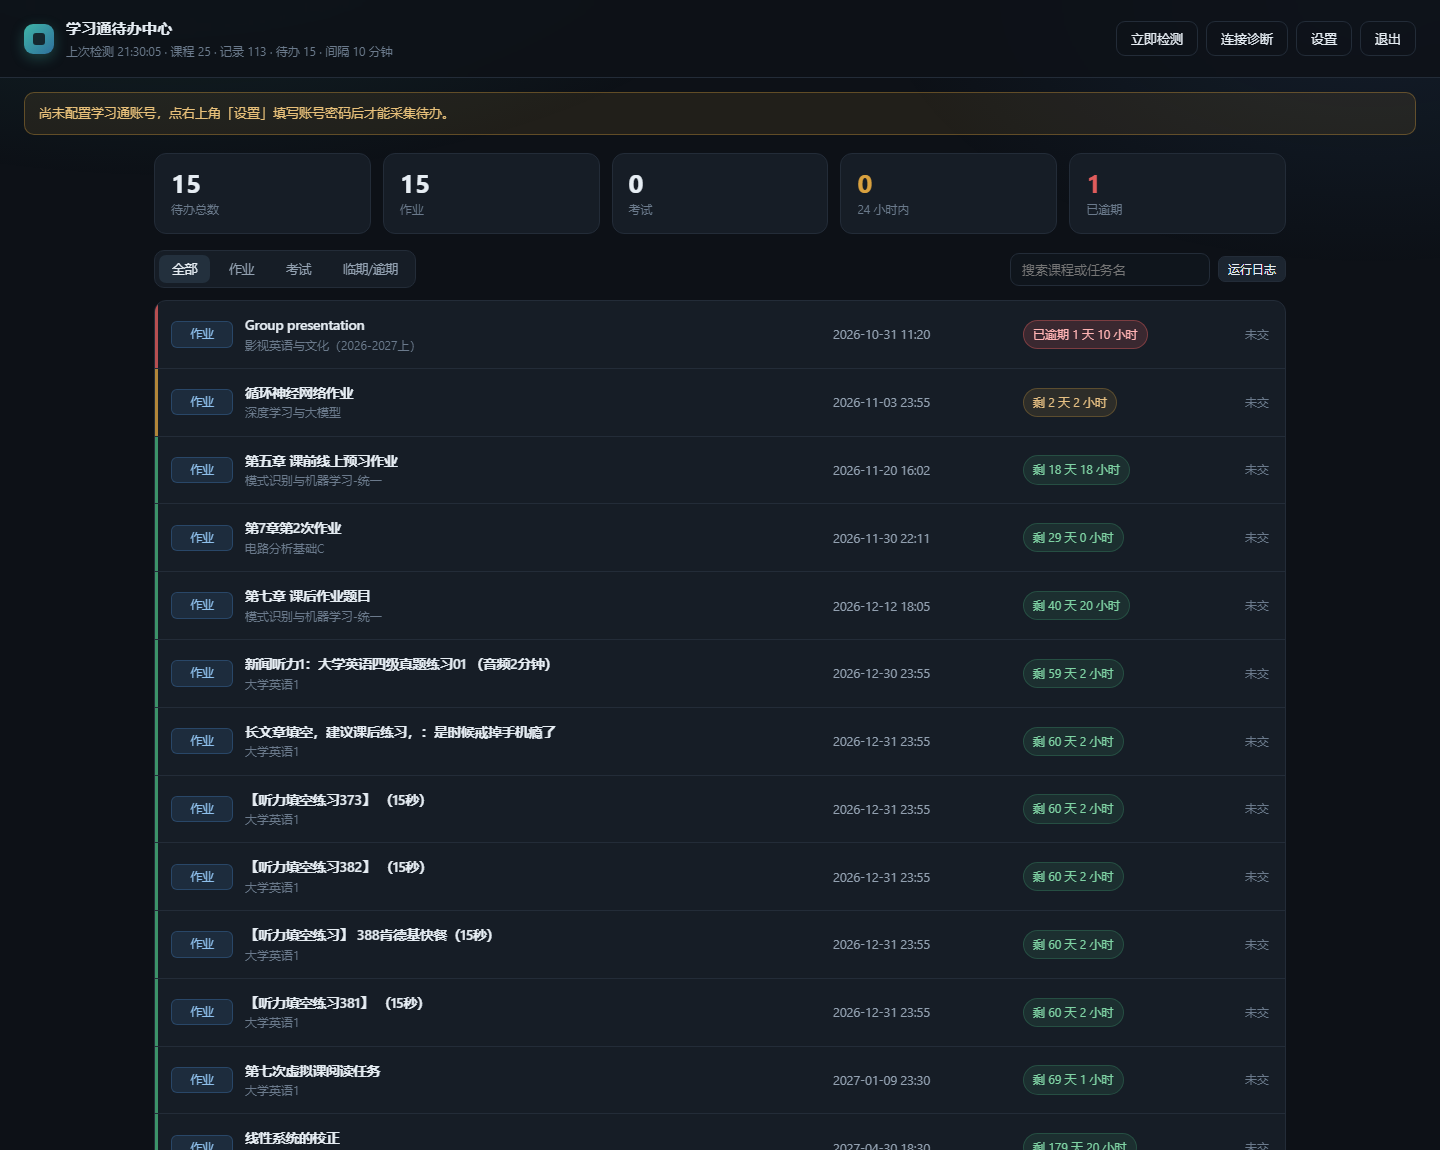
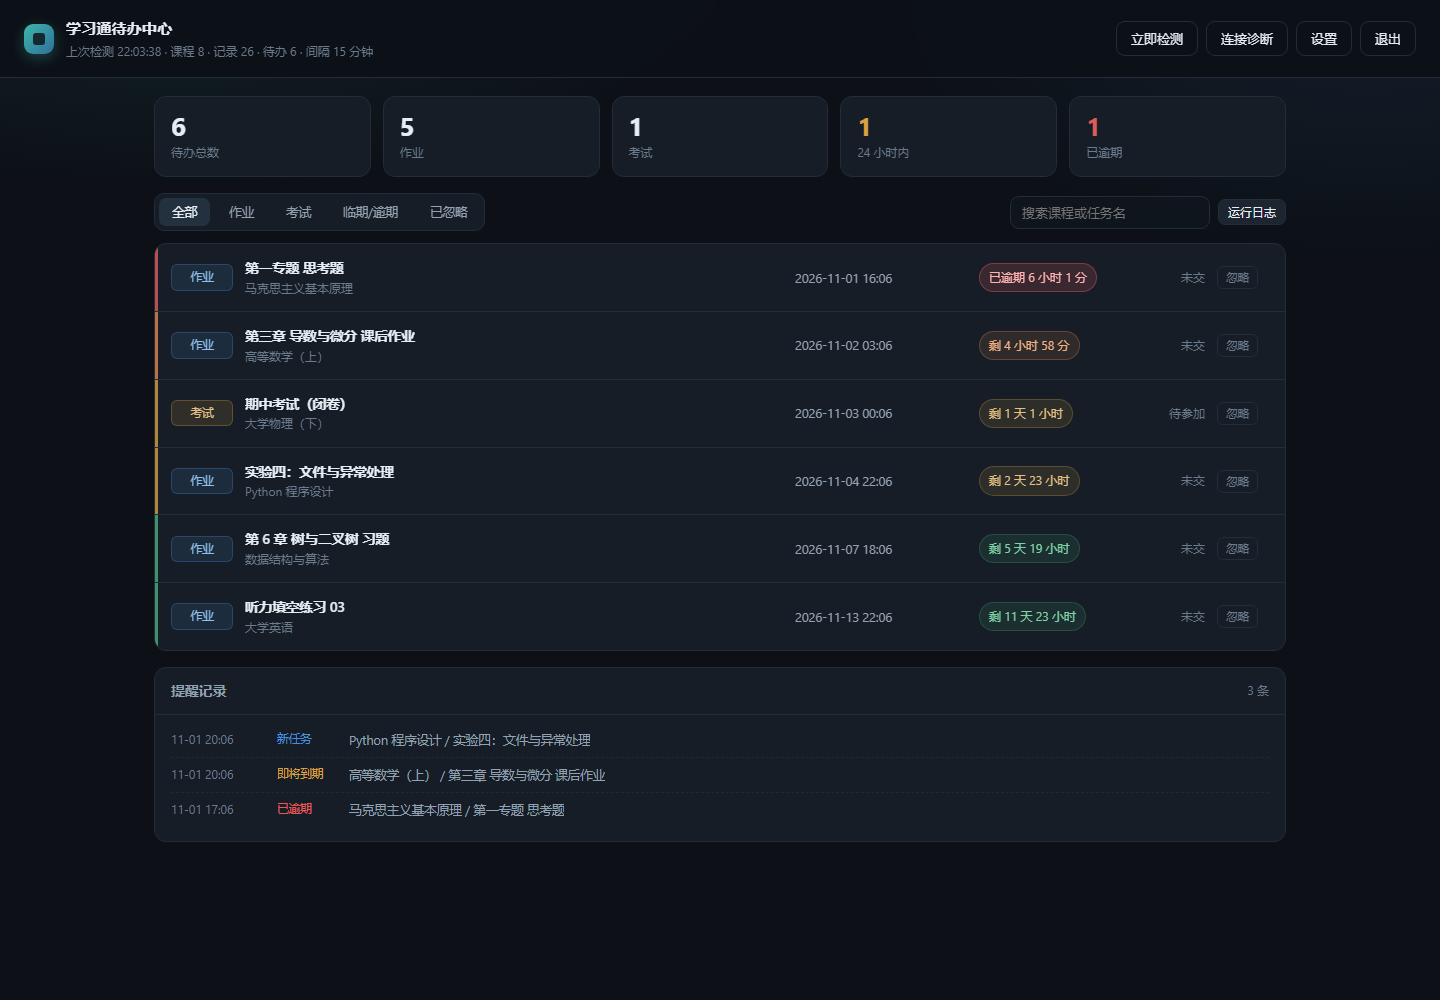
docs: 截图改用脱敏演示数据，补充 CHANGELOG 与 v1.0.0 发布说明

diff --git a/docs/RELEASE-NOTES-v1.0.0.md b/docs/RELEASE-NOTES-v1.0.0.md
@@ -1,0 +1,32 @@
+## 学习通作业中心 v1.0.0
+
+首个可用版本：把「学习通（超星）」分散在各门课里的未交作业与待参加考试，汇总到一个自托管的看板上，并按剩余时间分级提醒。
+
+### 亮点
+
+- **一次登录，全局待办**：自动遍历所有课程，作业与考试统一呈现（课程、任务、截止、剩余时长、状态）。
+- **点开就能读题**：作业详情抽屉展示大题结构、题干、选项、分值与附件，不需要跳回学习通。
+- **不刷屏的提醒**：新任务即时提醒，剩余 72h / 24h / 3h 各一次，逾期一次，另加每日汇总。
+- **可以忽略**：不关心的任务一划了之，统计与推送同步生效，随时恢复。
+- **自带网页面板**：倒计时、筛选搜索、连接诊断、运行日志、在线配置，访问口令保护。
+- **也能纯命令行跑**：`python -m cxreminder run` 常驻轮询，适合放服务器上。
+
+### 修复的坑
+
+- 作业/考试列表接口需要**课程级 `enc` 令牌**（课程页隐藏域 `workEnc` / `examEnc` / `openc`），否则一律「无权限的操作」；
+- 详情页 `typeName` 位于 `id="question"` 之前，按 id 切块会把下一题的题型算到当前题上。
+
+### 安装
+
+```bash
+git clone https://github.com/shiliu153/chaoxing-homework-hub.git
+cd chaoxing-homework-hub/chaoxing-web
+pip install -r requirements.txt
+uvicorn app.main:app --host 127.0.0.1 --port 8000
+```
+
+首次启动会生成访问口令（`data/web_password`），登录后在「设置」里填学习通账号即可。
+
+### 说明
+
+仅用于整理你自己账号的待办，请遵守学校规定与平台服务条款。仓库内不含任何账号凭据。

diff --git a/CHANGELOG.md b/CHANGELOG.md
@@ -1,0 +1,27 @@
+# Changelog
+
+## v1.0.0 (2026-11-01)
+
+首个可用版本。
+
+### 新增
+
+- **自动登录**：复刻网页端口令 AES 加密调用登录接口；登录态缓存到本地，失效自动重登；支持粘贴 Cookie 兜底验证码场景。
+- **待办聚合**：遍历全部课程，抓取作业与考试，输出课程名、任务名、截止时间、剩余时长、状态。
+- **作业详情**：大题结构、题干、选项、分值、附件；按需拉取并缓存 6 小时。
+- **分级提醒**：新任务即时提醒；剩余 72h / 24h / 3h 各提醒一次；逾期提醒一次；每日定时汇总。
+- **手动忽略**：单条任务忽略后不再计入统计、不再推送，可随时恢复。
+- **推送通道**：企业微信 / 钉钉机器人、Server 酱、PushPlus、通用 Webhook、SMTP 邮件、终端输出。
+- **Web 面板**：深色仪表盘、倒计时、筛选搜索、连接诊断、运行日志、在线改配置、访问口令鉴权。
+- **命令行模式**：`run` / `once` / `doctor` / `dump` / `test-notify`。
+- **部署文件**：systemd unit、nginx 站点（HTTP / HTTPS 两版）、宝塔面板站点注册 SQL。
+
+### 修复
+
+- 作业 / 考试列表接口缺少课程级 `enc` 令牌，导致恒返回「无权限的操作」/「参数传递不正确」。
+- 详情页题型归属错位（`typeName` 位于 `id="question"` 之前，会取到下一题的题型）。
+- 「已互评 / 待互评 / 已评分」被误算作待办。
+
+### 测试
+
+- 23 个单元测试，覆盖时间解析、课程 / 列表 / 详情解析、任务指纹、首轮基线、阈值去重、逾期只报一次、状态跨实例恢复。
